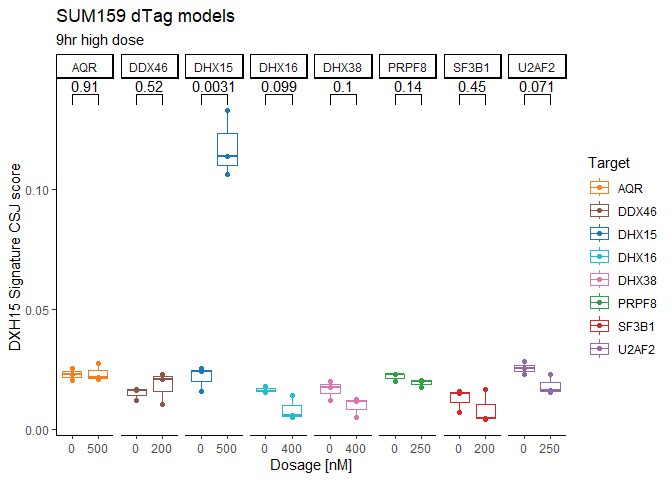
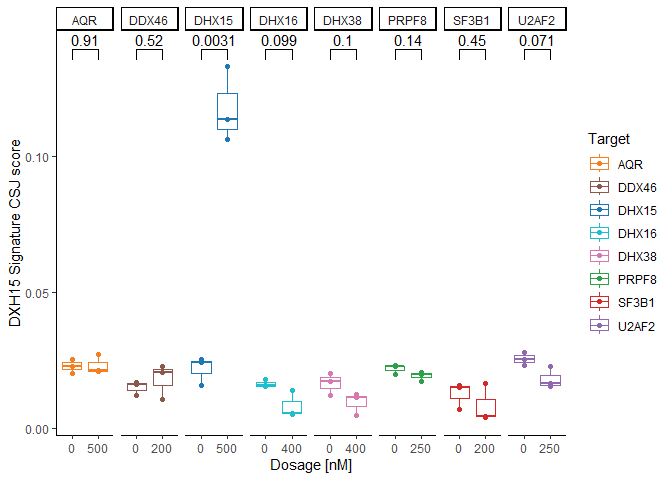
improve according to Miko's comments

diff --git a/code/figure6_2.md b/code/figure6_2.md
@@ -45,7 +45,7 @@ calculate_score <- function(counts, ujs, kis) {
 
 # Load data for LM2 & SUM159 heatmap ####
 prefix <- "../data/dtag_experiments/"
-meta <- fread("../data/dtag_experiments/meta_12_dtag.tsv")
+meta <- fread("../data/dtag_experiments/sum159_lm2_meta.tsv")
 
 name_list <- c("SUM159_D12_dTag13_DHX15_0nM_9hrs-1_classified_junctions.tsv",
                "SUM159_D12_dTag13_DHX15_0nM_9hrs-2_classified_junctions.tsv",
@@ -61,7 +61,7 @@ name_list <- c("SUM159_D12_dTag13_DHX15_0nM_9hrs-1_classified_junctions.tsv",
                "LM2_G10_dTag13_DHX15_50nM_9hrs-3_classified_junctions.tsv")
 files <- unlist(lapply(name_list, function(x) paste(prefix, x, sep = "")))
 dhx15_specific <- read.delim(
-  "../data/dtag_experiments/differential_usage_table.tsv")
+  "../data/dtag_experiments/differential_csj_frequency_table.tsv")
 dhx15_specific <- dhx15_specific[-grep("X", dhx15_specific$sum159.uj), ]
 ujs <- dhx15_specific$sum159.uj[which(
   dhx15_specific$lm2.coef > 1 & dhx15_specific$sum159.coef > 1)]
@@ -117,7 +117,7 @@ pval <- signif(coefficients(afit)[2, 4], 2)
 ggplot(aframe,
        aes(factor(Dosage.value), score)) +
   labs(title = "SUM159 FKBP-DHX15",
-       subtitle = paste("SUM159 D12 9hr - ordinal model P:", pval),
+       subtitle = paste("SUM159 9hr - ordinal model P:", pval),
        y = "DHX15 Signature CSJ score",
        x = "dTAG [nM]") +
   geom_boxplot() + geom_point() +
@@ -146,9 +146,7 @@ farben <- c(U2AF2 = "#9268AC",
 # Figure 6 D
 ggplot(aframe,
        aes(factor(Dosage.value), score, color = Target)) +
-  labs(title = "SUM159 dTag models",
-       subtitle = "9hr high dose",
-       y = "DXH15 Signature CSJ score",
+  labs(y = "DXH15 Signature CSJ score",
        x = "Dosage [nM]") +
   facet_wrap(~ Target, scales = "free_x", nrow = 1) +
   geom_boxplot() + geom_point() +
